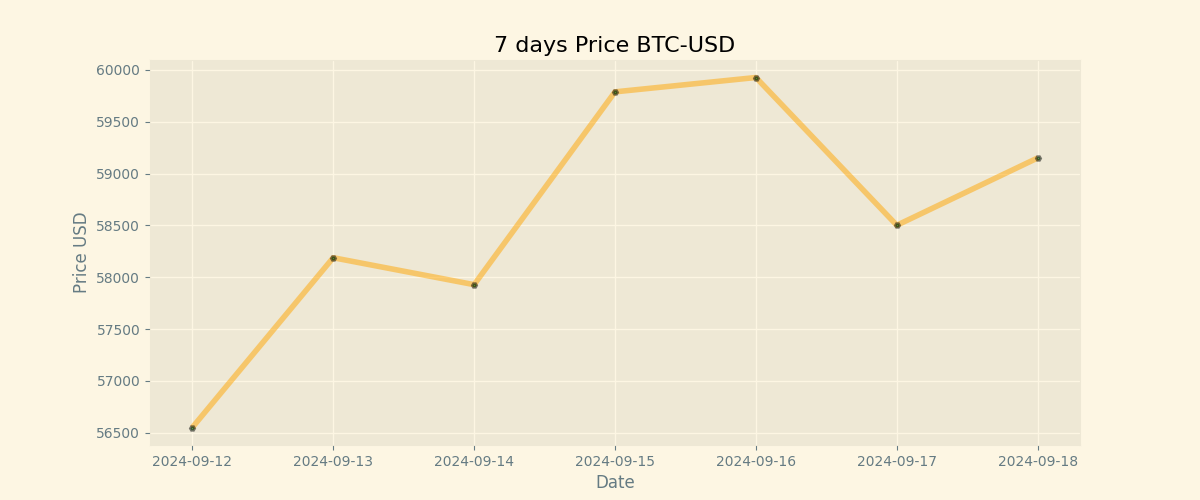
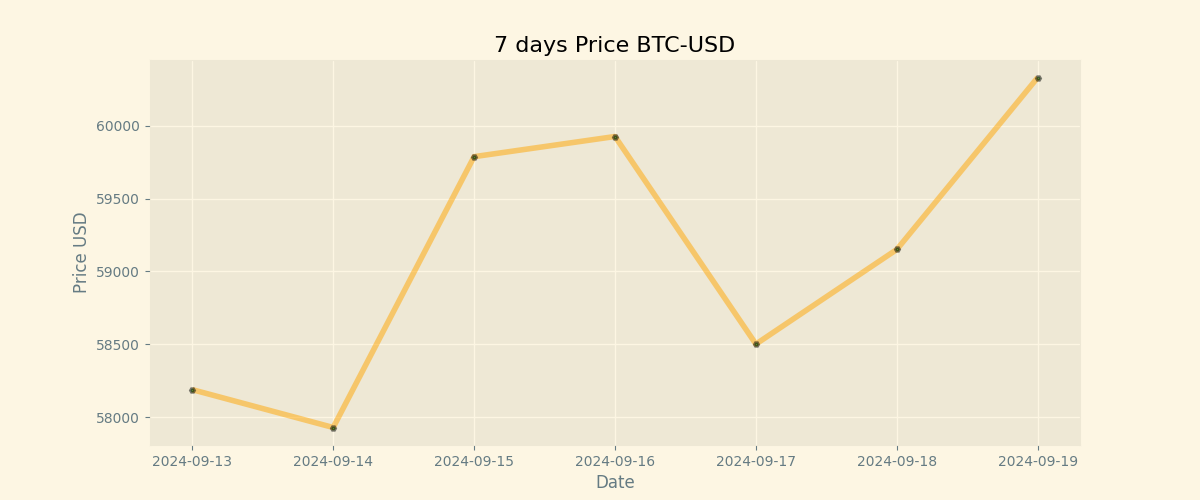
Duty Updates 2024-09-19

diff --git a/README.md b/README.md
@@ -9,8 +9,8 @@
 
 | Currency | Price           |
 | -------- | --------------- |
-| **BTC**  | **$ 59151.0** |
-| **ETH**  | **$ 2374.84** |
+| **BTC**  | **$ 60332.29** |
+| **ETH**  | **$ 2287.44** |
 
 ## BTC chart
 
